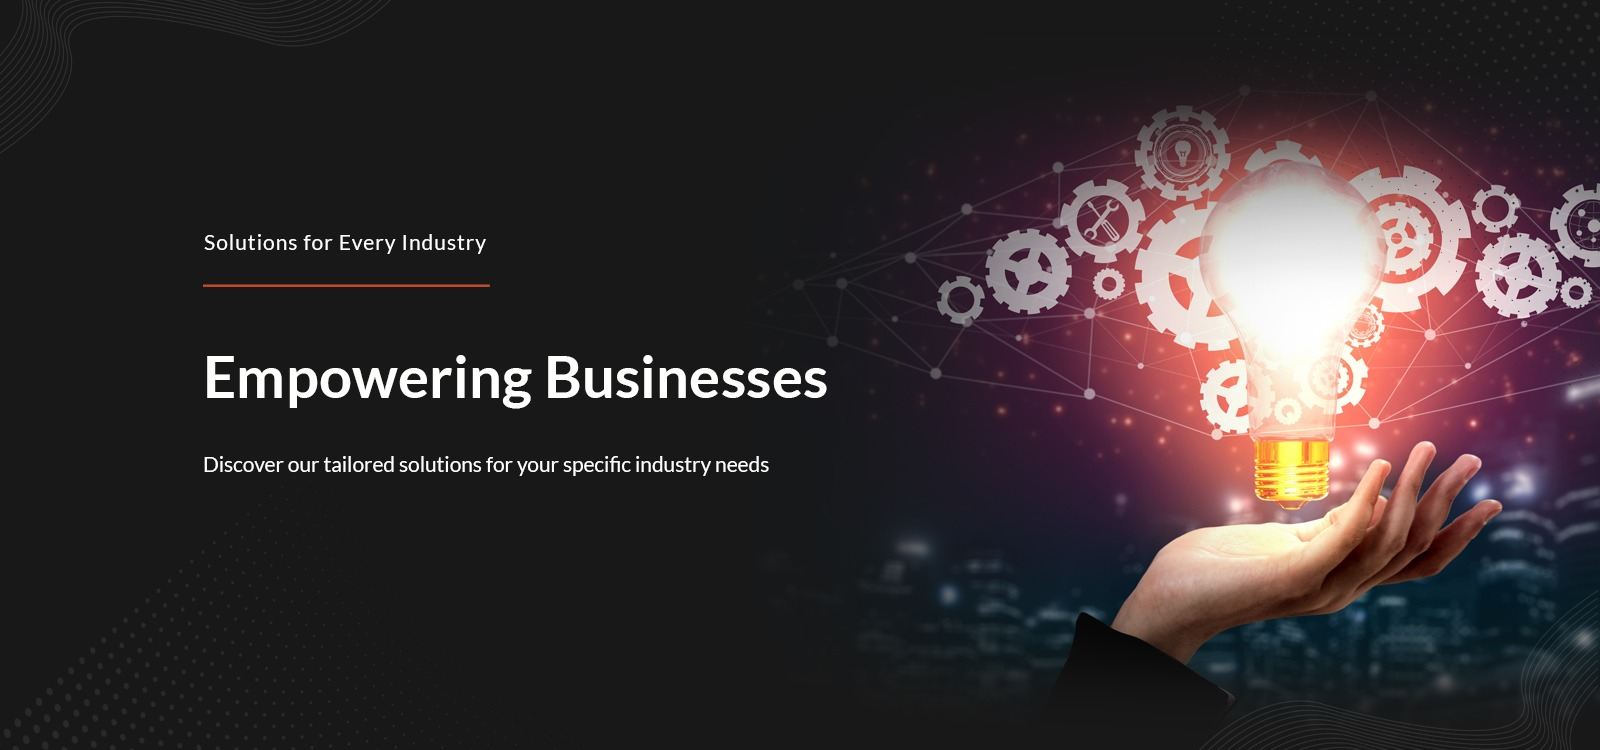
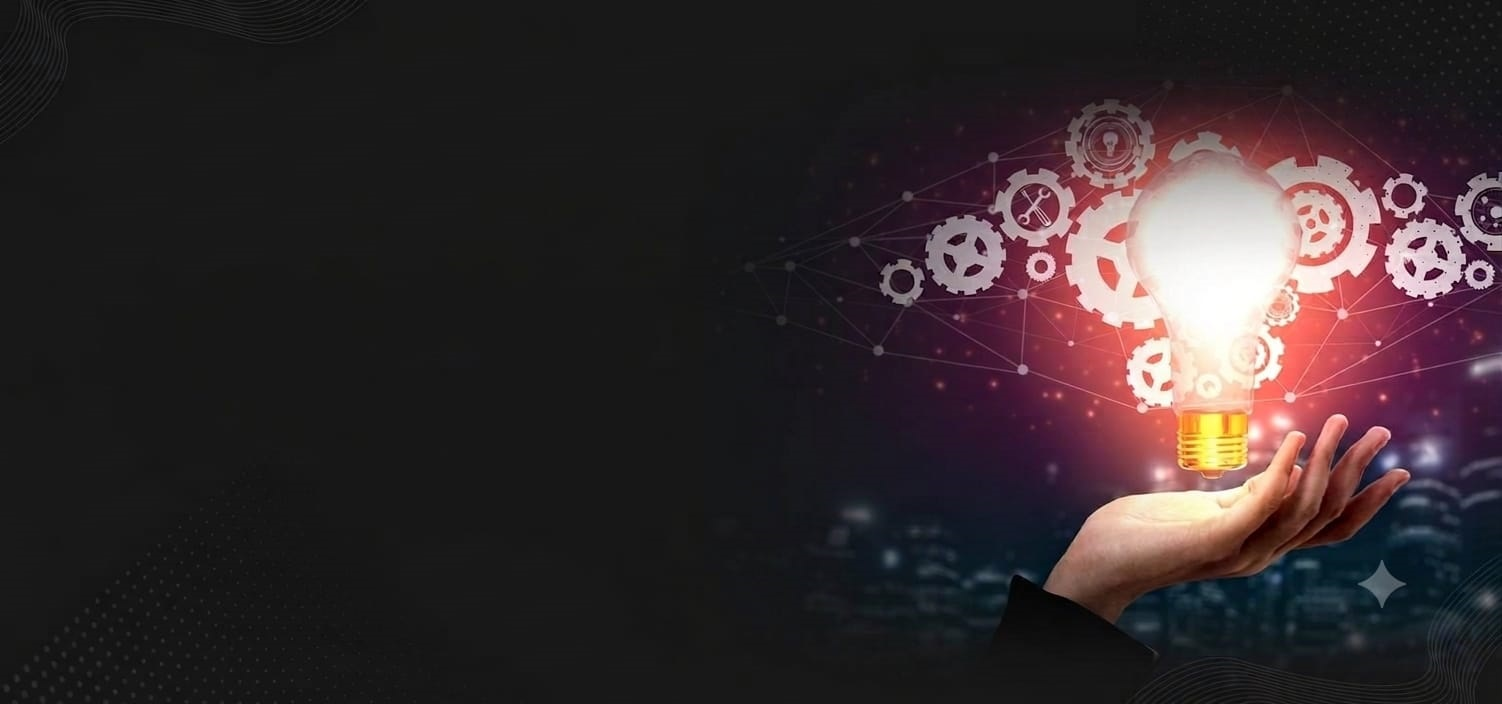
changes

diff --git a/src/components/Contact.jsx b/src/components/Contact.jsx
@@ -87,12 +87,23 @@ function Contact() {
 
       <Header />
 
-      {/* मुख्य मजकूर रॅप */}
-      <div className="page-wrapper" style={{ backgroundColor: '#f8fafc', width: '100%', overflowX: 'hidden' }}>
+      {/* Main Content Wrap */}
+      <div className="page-wrapper" style={{ backgroundColor: '#f8fafc', paddingBottom: '60px' }}>
         
-        {/* स्लायडर आणि इमेज ऑटो-फिट */}
+        {/* बॅनर्स */}
         <div className="slider">
-          <img src={contactImage} alt="Sankalp Solutions Contact Us Banner" />
+          <div className="slides">
+            <img src={contactImage} alt="Sankalp Solutions Contact Us Banner" />
+            <div className="caption" style={{
+              position: 'absolute', bottom: '20px', left: '50%', transform: 'translateX(-50%)',
+              color: '#ffffff', textAlign: 'center', width: '100%', maxWidth: '800px',
+              background: 'transparent', padding: '1rem', zIndex: '10'
+            }}>
+              <h2 style={{ color: '#ffffff', fontSize: '2.8rem', fontWeight: 'bold', margin: '0', textShadow: '2px 2px 8px rgba(0,0,0,0.6)' }}>
+                Contact Us
+              </h2>
+            </div>
+          </div>
         </div>
 
         {/* मुख्य कॉन्टॅक्ट विभाग (इथे margin: '0 auto' मुळे सर्व सेंटर होईल) */}
@@ -272,7 +283,7 @@ function Contact() {
 
         {/* 🎨 ५. ३. बॉटम ग्रॅडिएंट पट्टी बॉक्स (इथे विड्थ calc(100% - 48px) केली आहे) */}
         <section style={{ 
-          padding: '20px 5%', 
+          padding: '10px 10%', 
           background: 'linear-gradient(90deg, #ff6b6b, #ff8e53)', 
           margin: '0 auto 20px auto', 
           maxWidth: '1400px', 
@@ -283,10 +294,11 @@ function Contact() {
           width: 'calc(100% - 48px)'
         }}>
           <div style={{ maxWidth: '1200px', margin: '0 auto', color: '#ffffff' }}>
-            <p style={{ fontSize: '1.1rem', color: '#ffffff', margin: '0', lineHeight: '1.5', fontWeight: 'bold', opacity: '1' }}>
+            <p style={{ fontSize: '1.1rem', color: '#ffffff', margin: '0', lineHeight: '2.0', fontWeight: 'bold', opacity: '1' }}>
               <span>We look forward to hearing from you !</span>
-              <span style={{ marginRight: '100px' }}></span> 
-              <span>Your success is our priority.</span>
+            </p>
+            <p style={{ fontSize: '1.3rem', color: '#ffffff', margin: '0', lineHeight: '2.0', fontWeight: 'bold', opacity: '1' }}>
+            <span>YOUR SUCCESS IS OUR PRIORITY.</span>
             </p>
           </div>
         </section>

diff --git a/src/components/Industry.jsx b/src/components/Industry.jsx
@@ -149,10 +149,61 @@ function Industry() {
 
       <div className="page-wrapper">
         
-        {/* Banner Section */}
-        <div className="slider">
-          <img src={industryImage} alt="Sankalp Solutions Industries Banner" />
-        </div>
+{/* Banner Section (इमेजवरील टेक्स्टसह सुधारित) */}
+<div className="slider" style={{ 
+  position: 'relative', 
+  width: '100%', 
+  height: '60vh', // 👈 बॅनरची उंची (तुम्ही तुमच्या गरजेनुसार कमी-जास्त करू शकता)
+  overflow: 'hidden'
+}}>
+  {/* मुख्य बॅनर इमेज */}
+  <img 
+    src={industryImage} 
+    alt="Sankalp Solutions Industries Banner" 
+    style={{ width: '100%', height: '100%', objectFit: 'cover' }}
+  />
+  
+  {/* 🖤 डार्क ओव्हरले: यामुळे इमेजवर पांढरा टेक्स्ट अगदी स्पष्ट आणि गडद दिसेल */}
+  <div style={{
+    position: 'absolute', top: 0, left: 0, width: '100%', height: '100%',
+    background: 'linear-gradient(to right, rgba(0, 0, 0, 0.85), rgba(0, 0, 0, 0.5))',
+    display: 'flex', flexDirection: 'column', justifyContent: 'center',
+    paddingLeft: '6%', boxSizing: 'border-box'
+  }}>
+    
+    {/* १. वरची छोटी हेडिंग */}
+    <h4 style={{ 
+      color: '#ffffff', fontSize: '1.2rem', fontWeight: '500', 
+      margin: '0 0 12px 0', letterSpacing: '0.5px', fontFamily: "'Poppins', sans-serif" 
+    }}>
+      Solutions for Every Industry
+    </h4>
+
+    {/* 🔥 लाल/ऑरेंज रंगाची अंडरलाईन (इमेजप्रमाणे) */}
+    <div style={{ 
+      width: '180px', height: '3px', backgroundColor: '#ff6b6b', 
+      marginBottom: '35px' 
+    }} />
+
+    {/* २. मुख्य मोठी हेडिंग */}
+    <h1 style={{ 
+      color: '#ffffff', fontSize: '3.5rem', fontWeight: '700', 
+      margin: '0 0 25px 0', fontFamily: "'Poppins', sans-serif", letterSpacing: '-0.5px' 
+    }}>
+      Empowering Businesses
+    </h1>
+
+    {/* ३. खालची सब-हेडिंग */}
+    <p style={{ 
+      color: '#e2e8f0', fontSize: '1.1rem', fontWeight: '400', 
+      margin: '0', fontFamily: "'Poppins', sans-serif", opacity: '0.9' 
+    }}>
+      Discover our tailored solutions for your specific industry needs
+    </p>
+
+  </div>
+</div>
+
 
         {/* प्रिमियम लिनियर ग्रॅडिएंट बॉक्स १ */}
         <section style={{ 

diff --git a/src/components/Home.jsx b/src/components/Home.jsx
@@ -142,7 +142,7 @@ function Home() {
               <img src={founderImage} alt="Mr. Rohit Vijay Kawale" style={{ width: '100%', maxWidth: '300px', borderRadius: '8px' }} />
             </div>
             <div style={{ flex: '2', minWidth: '300px' }}>
-              <h2 style={{ fontSize: '2.2rem', color: '#002e79' }}>The Vision behind Sankalp</h2>
+              <h2 style={{ fontSize: '2.2rem', color: '#002e79' }}>THE VISION BEHIND SANKALP</h2>
               <h2 style={{ fontSize: '1.4rem', color: '#0a1931' }}>Mr. Rohit Vijay Kawale</h2>
               <p style={{ fontWeight: '600', color: '#666' }}>Founder | Sankalp Solutions</p>
               <p>With 14+ years of industry experience in Procurement & Supply Chain Management, Rohit has worked across diverse sectors including pharmaceuticals, automobile, manufacturing, life sciences, and R&D.</p>
